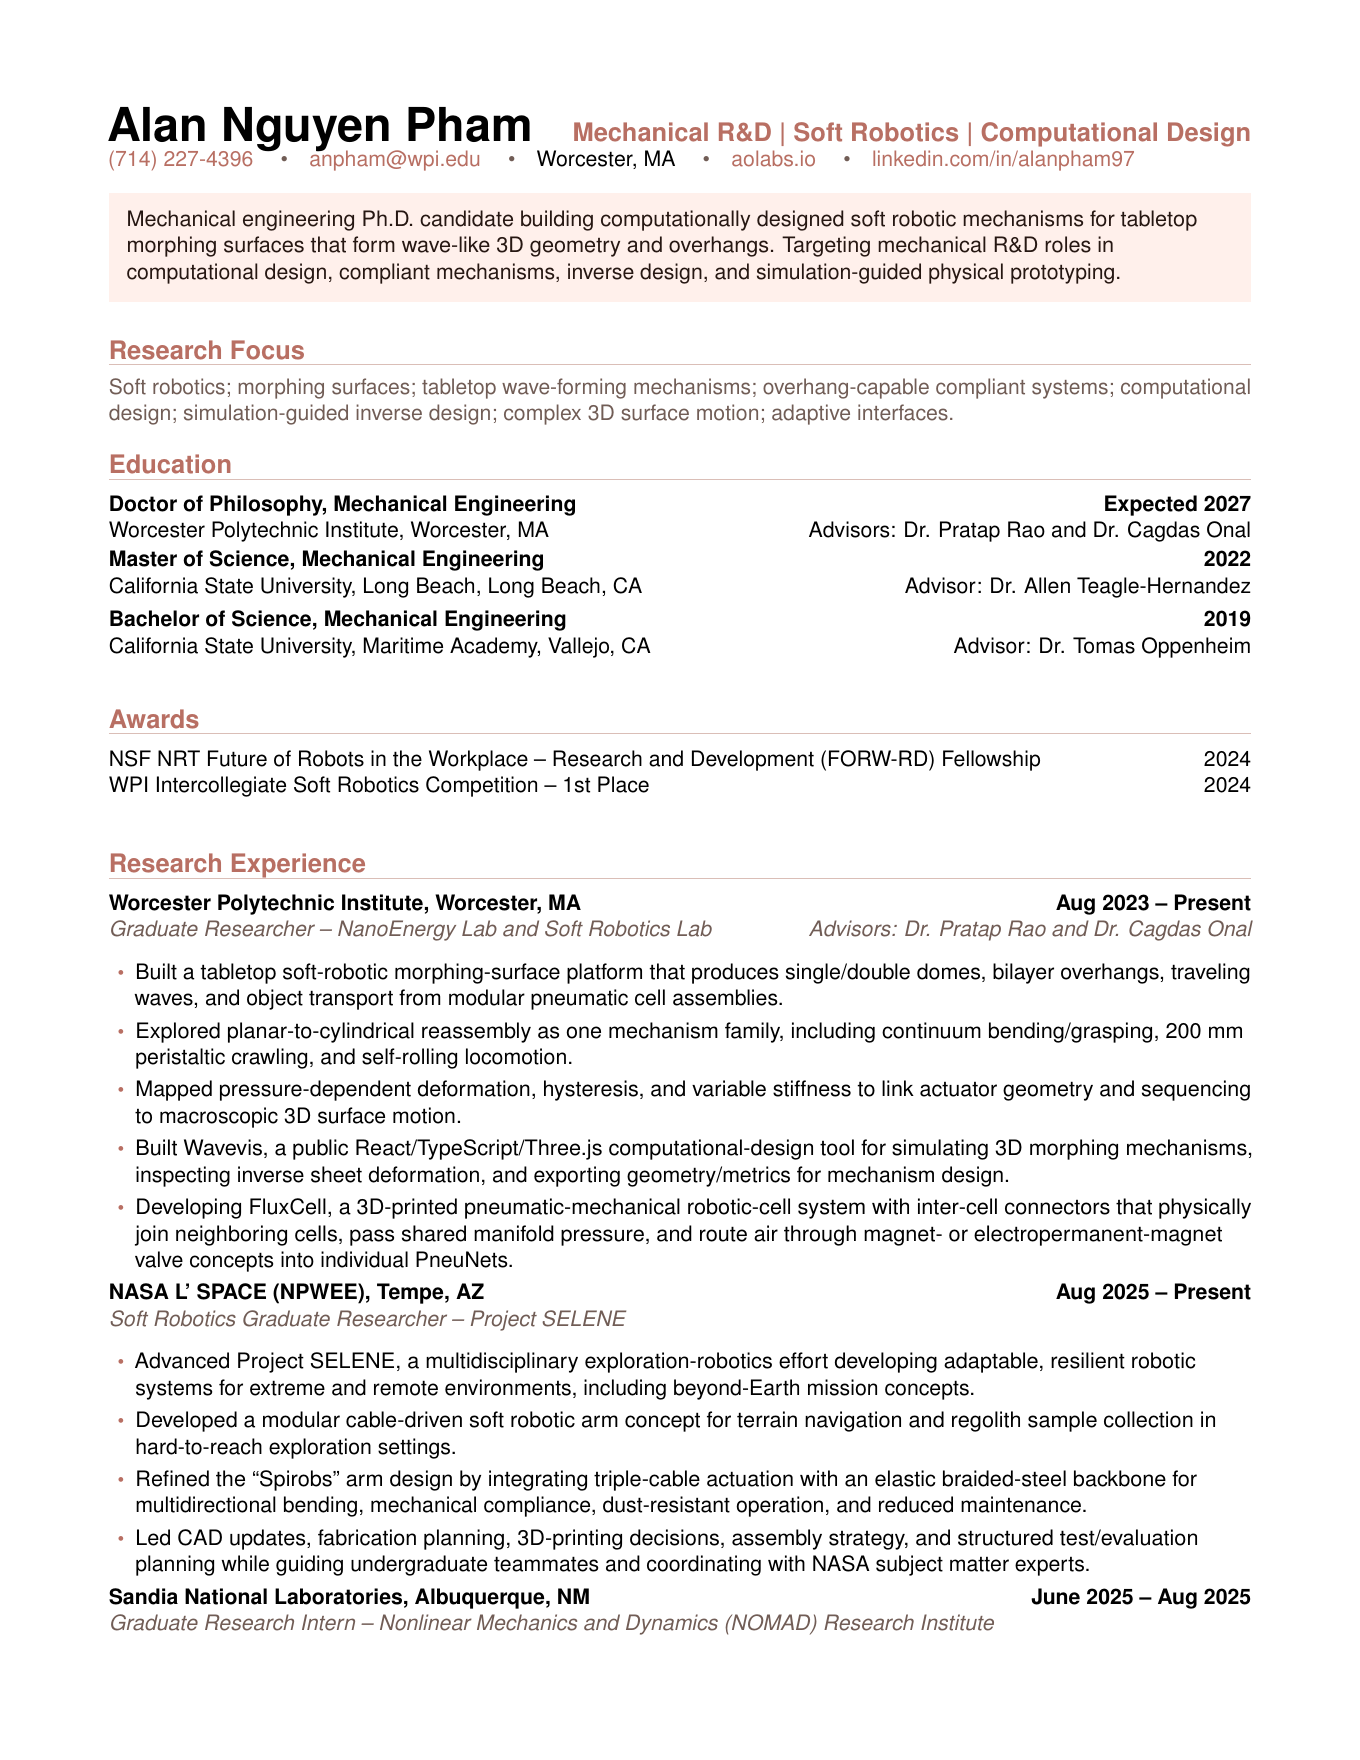
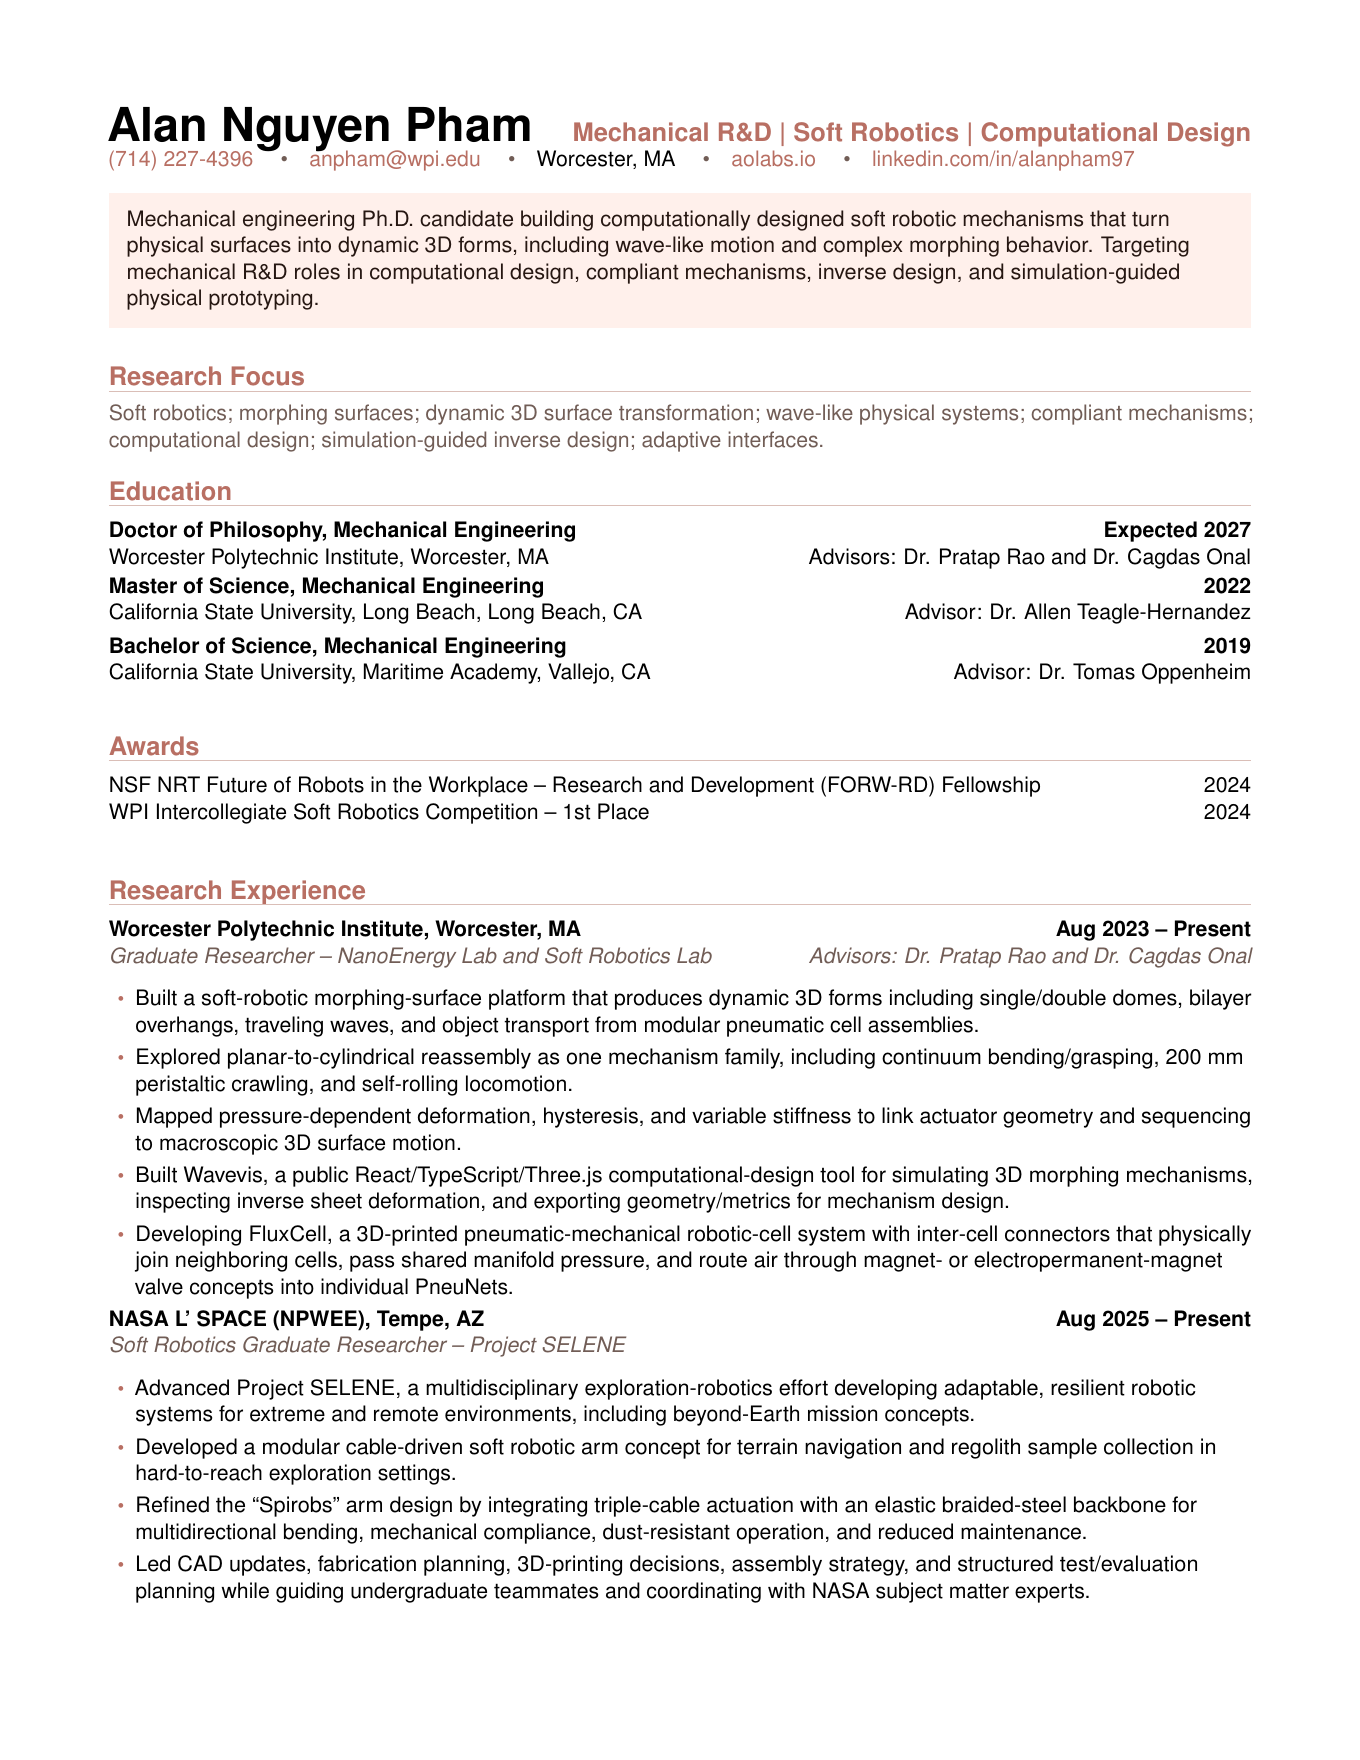
Broaden CV preview focus

Changed region(s): [[0.0618, 0.125, 0.9265, 0.9375], [0.8956, 0.4062, 0.9265, 0.4688]]

diff --git a/index.html b/index.html
@@ -4,7 +4,7 @@
   <meta charset="utf-8" />
   <meta name="viewport" content="width=device-width, initial-scale=1" />
   <title>cv.aolabs.io</title>
-  <meta name="description" content="Alan Nguyen Pham's mechanical R&D CV for soft robotics, computational design, simulation-guided inverse design, compliant mechanisms, and tabletop morphing surfaces.">
+  <meta name="description" content="Alan Nguyen Pham's mechanical R&D CV for soft robotics, computational design, simulation-guided inverse design, compliant mechanisms, and morphing surfaces.">
   <link rel="canonical" href="https://cv.aolabs.io/" />
   <meta name="twitter:image:alt" content="cv preview card.">
   <meta name="twitter:image" content="https://cv.aolabs.io/og-image-20260506-contained.png">
@@ -17,11 +17,11 @@
   <meta property="og:type" content="website">
   <meta property="og:site_name" content="AO Labs">
   <meta property="og:title" content="cv">
-  <meta property="og:description" content="Mechanical R&D CV for soft robotics, computational design, simulation-guided inverse design, compliant mechanisms, and tabletop morphing surfaces.">
+  <meta property="og:description" content="Mechanical R&D CV for soft robotics, computational design, simulation-guided inverse design, compliant mechanisms, and morphing surfaces.">
   <meta property="og:url" content="https://cv.aolabs.io/">
   <meta name="twitter:card" content="summary_large_image">
   <meta name="twitter:title" content="cv">
-  <meta name="twitter:description" content="Mechanical R&D CV for soft robotics, computational design, simulation-guided inverse design, compliant mechanisms, and tabletop morphing surfaces.">
+  <meta name="twitter:description" content="Mechanical R&D CV for soft robotics, computational design, simulation-guided inverse design, compliant mechanisms, and morphing surfaces.">
   <link rel="icon" href="https://aolabs.io/icons/cv.svg?v=20260523-tab-icons" type="image/svg+xml">
   <link rel="stylesheet" href="https://aolabs.io/suite-header.css?v=20260516-suite-bloom">
   <link rel="stylesheet" href="/styles.css?v=20260508-homeicon">
@@ -38,17 +38,17 @@
       </a>
     </div>
     <div class="suite-topbar-actions" aria-label="cv actions">
-      <a href="/alan-nguyen-pham-cv.pdf?v=20260605-wave-focus">open pdf</a>
+      <a href="/alan-nguyen-pham-cv.pdf?v=20260605-morphing-focus">open pdf</a>
     </div>
   </header>
 
   <main class="shell cv-shell">
     <section class="cv-intro" aria-label="cv summary">
-      <p>Mechanical R&amp;D CV for soft robotics, computational design, simulation-guided inverse design, compliant mechanisms, and tabletop morphing surfaces.</p>
+      <p>Mechanical R&amp;D CV for soft robotics, computational design, simulation-guided inverse design, compliant mechanisms, and morphing surfaces.</p>
     </section>
     <section class="viewer" aria-label="cv preview">
-      <a class="document-link" href="/alan-nguyen-pham-cv.pdf?v=20260605-wave-focus" aria-label="Open Alan Nguyen Pham CV PDF">
-        <img src="/alan-nguyen-pham-cv-page-1.png?v=20260605-wave-focus" alt="First page preview of Alan Nguyen Pham's CV.">
+      <a class="document-link" href="/alan-nguyen-pham-cv.pdf?v=20260605-morphing-focus" aria-label="Open Alan Nguyen Pham CV PDF">
+        <img src="/alan-nguyen-pham-cv-page-1.png?v=20260605-morphing-focus" alt="First page preview of Alan Nguyen Pham's CV.">
       </a>
     </section>
   </main>
